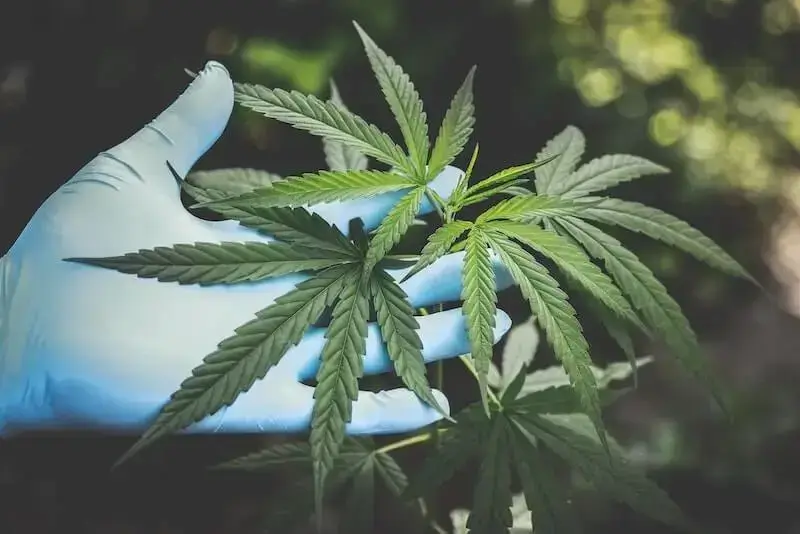
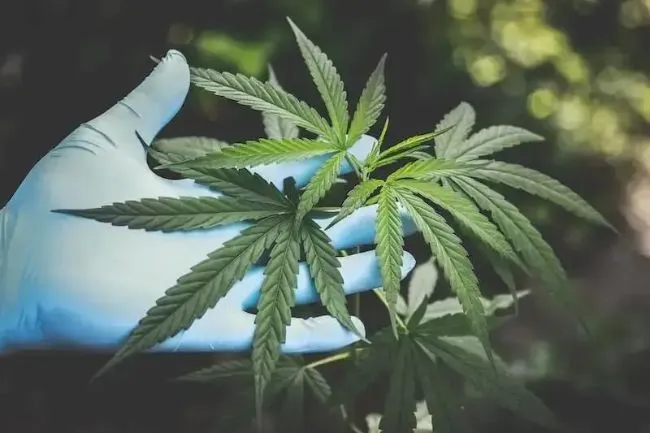
update all

diff --git a/index.html b/index.html
@@ -99,8 +99,8 @@
 
       <!-- Background image  -->
       <section>
-        <div class="p-5 text-center bg-image" style="background-image: url(./app/img/logo/IMG_20230329_145702.webp); height: 600px">
-          <div class="mask" style="background-color: rgba(0, 0, 0, 0.3)">
+        <div class="p-5 text-center bg-image" style="background-image: url(./app/img/logo/IMG_20230329_145702.webp); height: 500px">
+          <div class="mask" style="background-color: rgba(0, 0, 0, 0.2)">
             <div class="d-flex justify-content-center align-items-center h-100">
               <div class="text-white">
                 <div class="wrapper mb-5">
@@ -144,11 +144,11 @@
     <!-- sign up end  -->
 
     <!-- syrup about section-->
-    <section id="about" class="about bg-black text-light p-3  fs-3">
+    <section id="about" class="about bg-black text-light p-3 fs-3">
       <div class="container">
         <div class="row">
           <div class="col-lg-4">
-            <img src="./app/img/about/about640x427.jpg" width="640" height="427" loading="lazy"
+            <img src="./app/img/about/about_club_500x334.webp" width="500" height="334" loading="lazy"
               class="img-fluid mt-5" alt="Cannabis indoor farm">
           </div>
           <div class="col-lg-8 pt-4 pt-lg-0 ">
@@ -239,7 +239,7 @@
             </div>
           </div>
         </section>
-          <!-- tinctures end -->
+          <!-- smokeless end -->
          <!-- shots start  -->
           <section id="shots" class="about bg-black text-light p-3">
             <div>
@@ -250,7 +250,7 @@
           <div class="container">
             <div class="row">
               <div class="col-lg-4">
-                <img src="./app/img/about/shots_selection.webp" class="img-fluid" loading="lazy" width="600" height="398"
+                <img src="./app/img/about/shots_selection_500x332.webp" class="img-fluid" loading="lazy" width="500" height="332"
                   alt="CBD Tincture Bottles">
               </div>
               <div class="col-lg-8 pt-4 pt-lg-0 fs-3 ">
@@ -270,7 +270,7 @@
           </div>
         </section>
           <section id="shots_card" class="feco-shots pt-lg-0 pb-1 fs-3 bg-black">
-            <!-- oils  -->
+         
             <div class="row row-cols-1 row-cols-lg-4 row-cols-md-3 row-cols-sm-2 g-3 mx-1 mb-5">
             <div class="col">
               <div class="card h-100 border border-3 border-warning">
@@ -330,7 +330,7 @@
         <div class="container">
           <div class="row">
             <div class="col-lg-4">
-              <img src="./app/img/about/club_feco.webp" class="img-fluid" loading="lazy" width="603" height="340"
+              <img src="./app/img/about/club_feco_500x282.webp" class="img-fluid" loading="lazy" width="500" height="282"
                 alt="Various CBD drinks in glasses">
             </div>
             <div class="col-lg-8 pt-4 pt-lg-0 fs-3">
@@ -394,7 +394,7 @@
             </div>
           </div>
         </section>
-          <!-- tinctures end -->
+          <!-- cocktails end -->
                <!-- chocolate start -->
                <section id="edibles" class="about bg-black text-light p-3">
                 <div>
@@ -405,7 +405,7 @@
               <div class="container">
                 <div class="row">
                   <div class="col-lg-4">
-                    <img src="./app/img/about/baking-with-chocolate-590x755.jpg" class="img-fluid" loading="lazy" width="604" height="472"
+                    <img src="./app/img/about/chocolate_about_500x391.webp" class="img-fluid" loading="lazy" width="500" height="391"
                       alt="CBD Tincture Bottles">
                   </div>
                   <div class="col-lg-8 pt-4 pt-lg-0 fs-3">
@@ -484,7 +484,7 @@
         <div class="container">
           <div class="row">
             <div class="col-lg-4">
-              <img src="./app/img/gummies/gummies_batch.webp" class="img-fluid" loading="lazy" width="601" height="401"
+              <img src="./app/img/about/gummies_batch.webp" class="img-fluid" loading="lazy" width="500" height="334"
                 alt="CBD Tincture Bottles">
             </div>
             <div class="col-lg-8 pt-4 pt-lg-0 fs-3">
@@ -557,7 +557,7 @@
               <div class="container">
                 <div class="row">
                   <div class="col-lg-4">
-                    <img src="./app/img/about/honey-jar-with-wooden-honey-dipper_23-2149442335.webp" class="img-fluid" loading="lazy" width="343" height="501"
+                    <img src="./app/img/about/about_honey.webp" class="img-fluid" loading="lazy" width="640" height="428"
                       alt="CBD Tincture Bottles">
                   </div>
                   <div class="col-lg-8 pt-4 pt-lg-0 fs-3">
@@ -652,7 +652,7 @@
                 <div class="row row-cols-1 row-cols-lg-4 row-cols-md-3 row-cols-sm-2 g-3 mx-1 mb-5">
                 <div class="col">
                   <div class="card h-100 border border-3 border-success">
-                    <img src="./app/img/cbd_oils/Tincture_Van_1200mg__65374.webp" class="card-img-top" loading="lazy" width="400" height="506" alt="CBD Tinctures"/>
+                    <img src="./app/img/cbd_oils/Tincture_Van_1200mg__65374.webp" class="card-img-top" loading="lazy" width="280" height="400" alt="CBD Tinctures"/>
                     <div class="card-body">
                       <!-- <h3 class="card-title text-danger">Vimto</h5> -->
                       <p class="card-text text-light">
@@ -701,7 +701,7 @@
         <div class="container">
           <div class="row">
             <div class="col-lg-4">
-              <img src="./app/img/about/topicals_aboutPage.jpg" class="img-fluid" loading="lazy" width="300" height="168"
+              <img src="./app/img/about/topicals_aboutPage.webp" class="img-fluid" width="300" height="168"
                 alt="CBD Tincture Bottles">
             </div>
             <div class="col-lg-8 pt-4 pt-lg-0 fs-3">
@@ -724,8 +724,8 @@
           <div class="row row-cols-1 row-cols-lg-4 row-cols-md-3 row-cols-sm-2 g-3 mx-1 mb-5">
           <div class="col">
             <div class="card h-100 border border-3 border-success">
-              <img src="./app/img/topicals/topical-rub.jpg" class="card-img-top" loading="lazy" width="225"
-                height="225" alt="CBD Topicals" />
+              <img src="./app/img/topicals/topical-rub.webp" class="card-img-top" width="225"
+                height="225" alt="CBD Muscle Rub" />
               <div class="card-body">
                 <!-- <h3 class="card-title text-danger">Vimto</h5> -->
                 <p class="card-text text-light">
@@ -795,10 +795,9 @@
                 <div class="row row-cols-1 row-cols-lg-4 row-cols-md-3 row-cols-sm-2 g-3 mx-1 mb-5">
                 <div class="col">
                   <div class="card h-100 border border-3 border-success">
-                    <img src="./app/img/vape/vape_in.png" class="card-img-top" loading="lazy" width="305"
+                    <img src="./app/img/vape/vape_in.webp" class="card-img-top" loading="lazy" width="305"
                       height="228" alt="Vape pen herbal - resin product" />
                     <div class="card-body">
-                      <!-- <h3 class="card-title text-danger">Vimto</h5> -->
                       <p class="card-text text-light">
                         <a href="#exampleModal" type="button" data-mdb-toggle="modal"
                           data-mdb-target="#exampleModal" aria-label="Modal Form">⭐⭐⭐⭐⭐ feedback</a><br>
@@ -851,8 +850,8 @@
         <d class="carousel-inner">
           <!-- Single item 1-->
           <div class="carousel-item active">
-            <img src="./app/img/carousel/cannabisPlant.webp" class="d-block w-100" loading="lazy" width="800"
-              height="534" alt="CBD Leaf and bottle" />
+            <img src="./app/img/carousel/cannabisPlant.webp" class="d-block w-100"  width="600"
+              height="433" alt="Cannabis Plant" />
             <div class="carousel-caption d-none d-md-block">
               <h5></h5>
               <p></p>
@@ -861,8 +860,8 @@
 
           <!-- Single item 2-->
           <div class="carousel-item">
-            <img src="./app/img/carousel/gummies.jpg" class="d-block w-100" loading="lazy" width="800"
-              height="534" alt="CBD Tincture Bottle" />
+            <img src="./app/img/carousel/gummies.webp" class="d-block w-100"  width="600"
+              height="433" alt="Colored Gummy Bears" />
             <div class="carousel-caption d-none d-md-block">
               <h5></h5>
               <p></p>
@@ -871,8 +870,8 @@
 
           <!-- Single item 3-->
           <div class="carousel-item">
-            <img src="./app/img/carousel/tincturePipe.webp" class="d-block w-100" loading="lazy"
-              width="800" height="534" alt="Tincture Collection" />
+            <img src="./app/img/carousel/tincturePipe.webp" class="d-block w-100" 
+              width="600" height="433" alt="CBD Tincture Collection" />
             <div class="carousel-caption d-none d-md-block">
               <h5></h5>
               <p></p>

diff --git a/sw.js b/sw.js
@@ -17,13 +17,14 @@ const resourcesToPrecache = [
   "index.html",
   "app/css/main.css",
   "app/css/mdb.dark.min.css",
-  "app/img/about/about640x427.jpg",
-  "app/img/about/baking-with-chocolate-590x755.jpg",
+  "app/img/about/about_club_500x334.webp",
+  "app/img/about/chocolate_about_500x391.webp",
   "app/img/about/best-cbd.webp",
-  "app/img/about/club_feco.webp",
-  "app/img/about/honey-jar-with-wooden-honey-dipper_23-2149442335.webp",
+  "app/img/about/club_feco_500x282.webp",
+  "app/img/about/gummies_batch.webp",
+  "app/img/about/about_honey_500x334.webp",
   "app/img/about/juiceGlass.webp",
-  "app/img/about/shots_selection.webp",
+  "app/img/about/shots_selection_500x332.webp",
   "app/img/about/smokeless_about.webp",
   "app/img/about/topicals_aboutPage.webp",
   "app/img/carousel/cannabisPlant.webp",
@@ -47,7 +48,7 @@ const resourcesToPrecache = [
   "app/img/logo/logo384x384.png",
   "app/img/logo/logo512x512.png",
   "app/img/shots/FECO_SHOTS_CHERRY_LITE.webp",
-  "app/img/topicals/topical-rub.jpg",
+  "app/img/topicals/topical-rub.webp",
   "app/img/vape/vape_disp.webp",
   "app/img/vape/vape_in.png",
   "app/img/vape/vape_small.webp",
